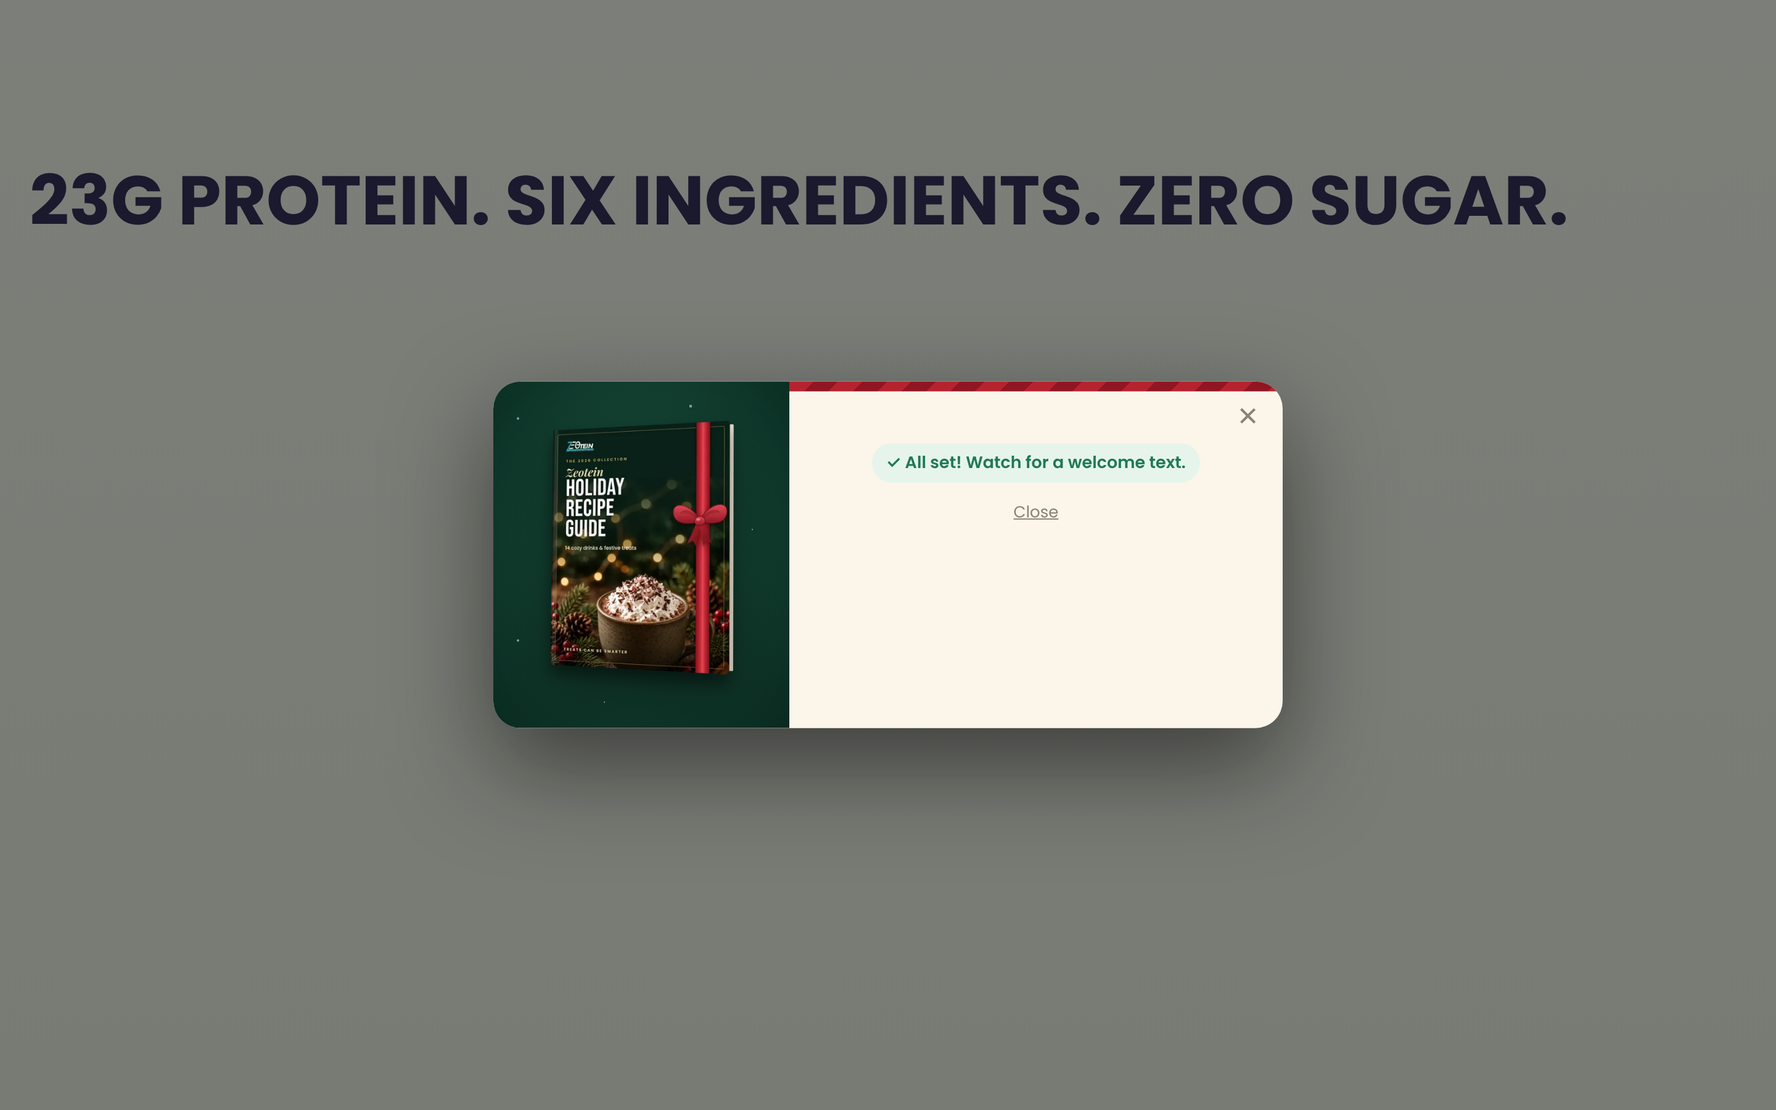
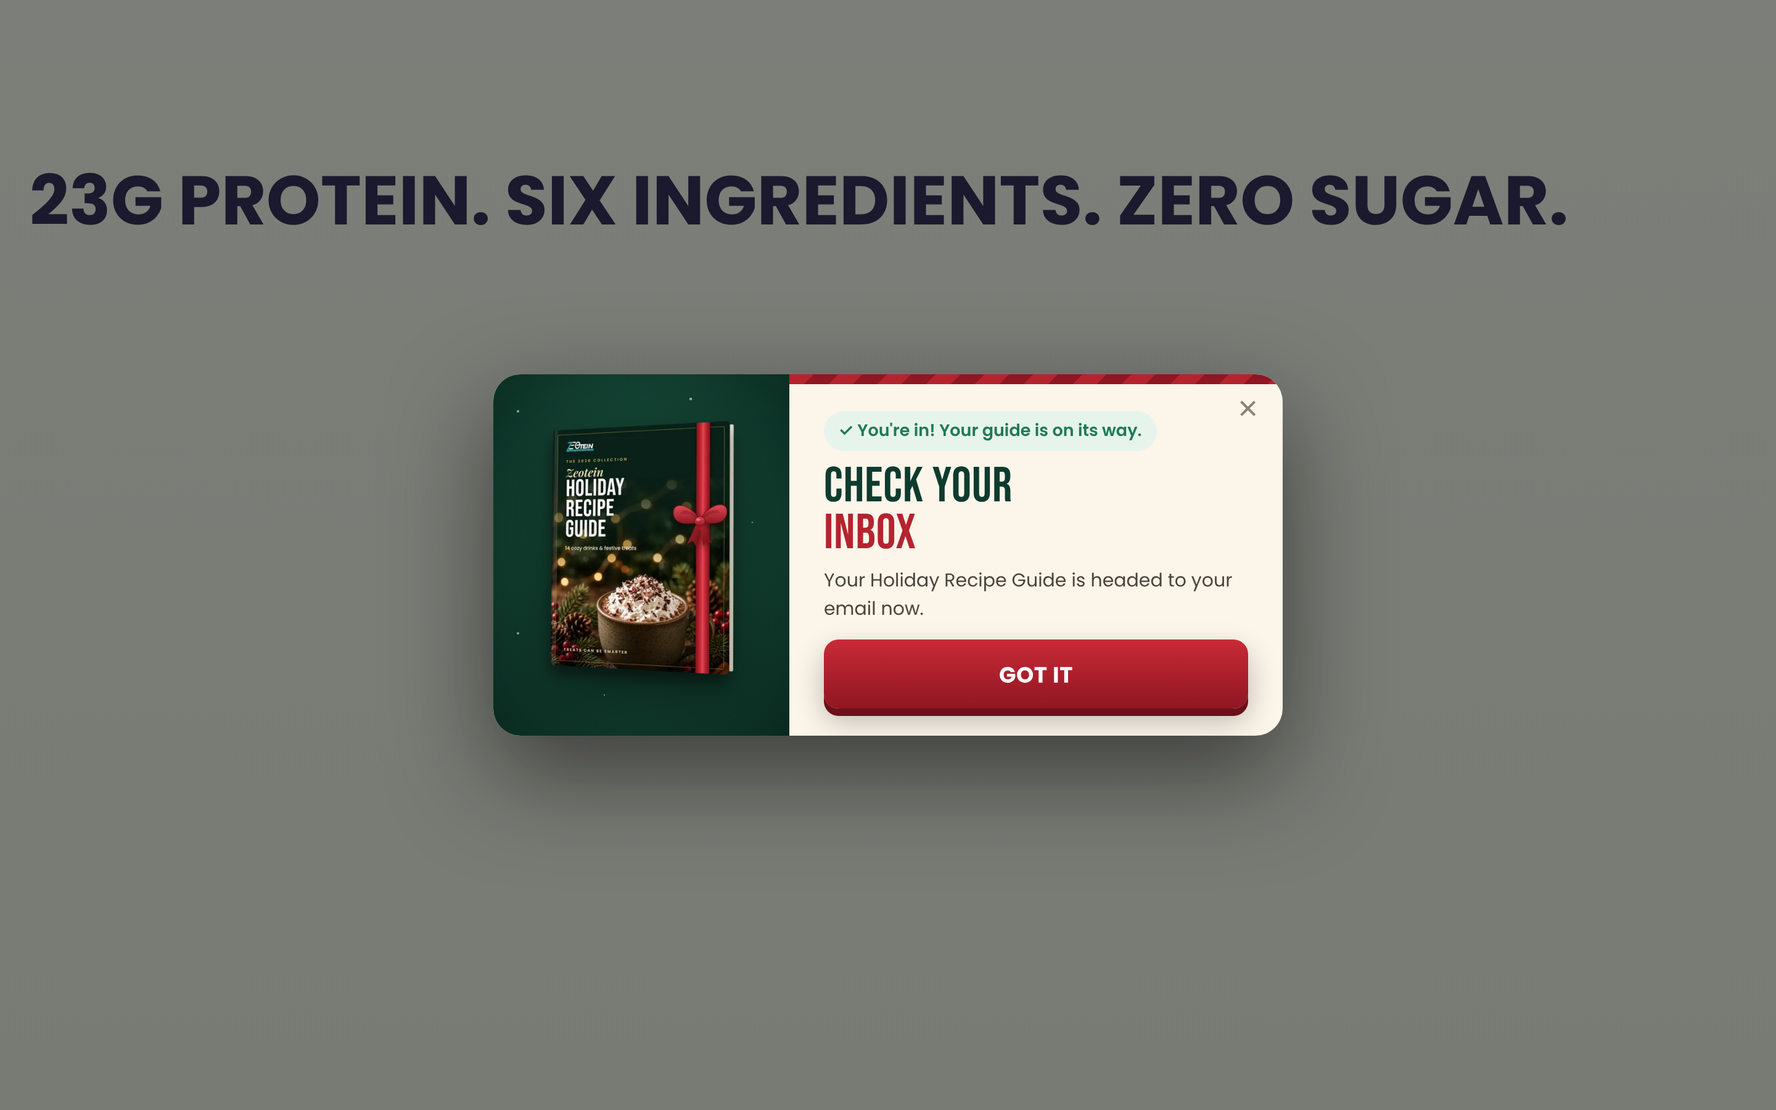
Holiday pop-up: one-step form with optional SMS consent, Meta Lead, 35s mobile timer
Claude-Session: https://claude.ai/code/session_01D28ukcK97WsDjE3N9VCs7n

Changed region(s): [[0.2812, 0.3111, 0.7188, 0.6844]]

diff --git a/holiday-popup/qa/preview.html b/holiday-popup/qa/preview.html
@@ -22,22 +22,20 @@
         <p class="zt-hp__p">14 cozy drinks and festive treats with protein folded right in. For you, and for sharing all season. Yours free.</p>
         <input class="zt-hp__in" type="text" name="firstName" placeholder="First name" autocomplete="given-name" required maxlength="60">
         <input class="zt-hp__in" type="email" name="email" placeholder="Email address" autocomplete="email" required maxlength="120">
+        <label class="zt-hp__in zt-hp__phone"><span class="zt-hp__cc">🇺🇸 +1</span><input type="tel" name="phone" placeholder="Mobile number (optional)" autocomplete="tel-national" inputmode="tel" maxlength="16"></label>
+        <label class="zt-hp__tcpa"><input type="checkbox" name="smsConsent" value="yes"><span data-zt-consent>Yes, text me recipes and holiday offers. By checking this box, you agree to receive recurring automated marketing texts from Zeotein at the number provided. Consent is not a condition of purchase. Msg &amp; data rates may apply. Msg frequency varies. Reply STOP to opt out, HELP for help. <a href="/policies/terms-of-service" target="_blank">Terms</a> &amp; <a href="/policies/privacy-policy" target="_blank">Privacy</a>.</span></label>
         <input class="zt-hp__hp" type="text" name="company" tabindex="-1" autocomplete="off" aria-hidden="true">
         <div class="zt-hp__err" role="alert"></div>
         <button class="zt-hp__btn" type="submit">Send My Free Guide 🎄</button>
         <button type="button" class="zt-hp__later" data-zt-close>Maybe later</button>
       </form>
 
-      <form class="zt-hp__s2" novalidate hidden>
+      <div class="zt-hp__s2" hidden>
         <div class="zt-hp__done">✓ You're in! Your guide is on its way.</div>
-        <h2 class="zt-hp__h zt-hp__h--s2">Want new recipes<br><span>by text?</span></h2>
-        <p class="zt-hp__p">Optional. Cozy recipes and holiday offers, sent straight to your phone.</p>
-        <label class="zt-hp__in zt-hp__phone"><span class="zt-hp__cc">🇺🇸 +1</span><input type="tel" name="phone" placeholder="Mobile number" autocomplete="tel-national" inputmode="tel" maxlength="16"></label>
-        <div class="zt-hp__err" role="alert"></div>
-        <button class="zt-hp__btn" type="submit">Text Me Recipes 📱</button>
-        <div class="zt-hp__tcpa" data-zt-consent>By tapping Text Me Recipes, you agree to receive recurring automated marketing texts from Zeotein at this number. Consent is not a condition of purchase. Msg &amp; data rates may apply. Msg frequency varies. Reply STOP to opt out, HELP for help. <a href="/policies/terms-of-service" target="_blank">Terms</a> &amp; <a href="/policies/privacy-policy" target="_blank">Privacy</a>.</div>
-        <button type="button" class="zt-hp__later" data-zt-close>Skip, email is perfect</button>
-      </form>
+        <h2 class="zt-hp__h zt-hp__h--s2">Check your<br><span>inbox</span></h2>
+        <p class="zt-hp__p">Your Holiday Recipe Guide is headed to your email now.</p>
+        <button type="button" class="zt-hp__btn" data-zt-close>Got It</button>
+      </div>
     </div>
   </div>
 </div>
@@ -74,20 +72,23 @@
 .zt-hp__btn[disabled]{opacity:.7;cursor:wait}
 .zt-hp__later{display:block;margin:14px auto 0;background:none;border:0;font:400 13px Poppins,sans-serif;color:#8a8273;text-decoration:underline;cursor:pointer}
 .zt-hp__done{display:flex;align-items:center;gap:8px;font:600 13.5px Poppins,sans-serif;color:#1f7a55;background:#e6f4ec;border-radius:999px;padding:6px 12px;width:max-content;max-width:100%;margin-bottom:10px}
-.zt-hp__tcpa{font-size:10.5px;line-height:1.45;color:#7a7266;margin-top:12px;text-align:left}
+.zt-hp__tcpa{display:flex;gap:9px;align-items:flex-start;font-size:10.5px;line-height:1.45;color:#7a7266;margin:2px 0 10px;text-align:left;cursor:pointer}
+.zt-hp__tcpa input{flex:0 0 auto;width:17px;height:17px;margin-top:1px;accent-color:var(--pine);cursor:pointer}
 .zt-hp__tcpa a{color:inherit;text-decoration:underline}
 @media (max-width:700px){
  .zt-hp__modal{top:auto;bottom:0;left:0;transform:translateY(100%);opacity:1;width:100%;max-width:none;max-height:92%;grid-template-columns:minmax(0,1fr);overflow-x:hidden;border-radius:22px 22px 0 0}
  .zt-hp.is-open .zt-hp__modal{transform:none}
- .zt-hp__art{padding:22px 0 0;height:170px;align-items:flex-start}
- .zt-hp__cover{width:118px}
+ .zt-hp__art{padding:18px 0 0;height:118px;align-items:flex-start}
+ .zt-hp__cover{width:78px}
  .zt-hp__handle{display:block;position:absolute;top:8px;left:50%;width:44px;height:5px;margin-left:-22px;border-radius:9px;background:rgba(255,255,255,.5);z-index:3}
  .zt-hp__body{padding:18px 20px calc(18px + env(safe-area-inset-bottom));text-align:center;position:static}
  .zt-hp__corner{position:relative;top:-18px;left:-20px;width:calc(100% + 40px);margin-bottom:-8px}
  .zt-hp__x{color:#fff;top:12px;right:10px;z-index:4}
- .zt-hp__h{font-size:40px}
+ .zt-hp__h{font-size:34px;margin:4px 0 6px}
+ .zt-hp__in{height:46px;margin-bottom:8px}
+ .zt-hp__k{font-size:11.5px}
  .zt-hp__h--s2{font-size:34px}
- .zt-hp__p{font-size:14.5px;margin-bottom:12px}
+ .zt-hp__p{font-size:13.5px;margin-bottom:10px}
  .zt-hp__done{margin:0 auto 8px;width:auto;display:inline-flex;font-size:12.5px}
  .zt-hp__s2{display:flex;flex-direction:column}
  .zt-hp__s2[hidden]{display:none}
@@ -101,7 +102,6 @@
   var ENDPOINT = "/mock";
   var KEY = 'zt_hp_v1';
   var DISMISS_DAYS = 7;          // after "Maybe later" / close
-  var SKIP_SMS_DAYS = 365;       // after email submit (never ask for email again)
   var root = document.getElementById('zt-hp'); if(!root) return;
   var q = new URLSearchParams(location.search);
   var force = q.get('zt_popup') === '1';
@@ -143,7 +143,7 @@
   function track(name, data){
     try{ window.dataLayer = window.dataLayer||[]; window.dataLayer.push(Object.assign({event:name}, data||{})); }catch(e){}
     try{ if(window.Shopify && Shopify.analytics && Shopify.analytics.publish) Shopify.analytics.publish(name, data||{}); }catch(e){}
-    try{ if(name==='zt_holiday_popup_email' && window.fbq) fbq('track','Lead',{content_name:'Holiday Recipe Guide'}); }catch(e){}
+    try{ if(name==='zt_holiday_popup_lead' && typeof window.fbq==='function') fbq('track','Lead',{content_name:'Holiday Recipe Guide', content_category:'holiday-popup'}); }catch(e){}
   }
   function post(payload){
     if(!ENDPOINT) return Promise.reject(new Error('not_configured'));
@@ -156,33 +156,24 @@
   s1.addEventListener('submit', function(e){
     e.preventDefault(); err(s1);
     var fn = s1.firstName.value.trim(), em = s1.email.value.trim();
+    var raw = s1.phone.value.trim(), consent = s1.smsConsent.checked;
+    var digits = raw.replace(/\D/g,'').replace(/^1(?=\d{10}$)/,'');
     if(!fn){ err(s1,'Please add your first name.'); return; }
     if(!/^[^\s@]+@[^\s@]+\.[^\s@]{2,}$/.test(em)){ err(s1,'Please enter a valid email.'); return; }
+    if(raw && digits.length !== 10){ err(s1,'Please enter a 10-digit US mobile number, or leave it blank.'); return; }
+    if(consent && !raw){ err(s1,'Add your mobile number to get texts, or uncheck the box.'); return; }
+    var payload = {firstName:fn, email:em, company:s1.company.value, pageUrl:location.href};
+    // Phone is only sent with explicit consent (unchecked by default).
+    if(raw && consent){ payload.phone = '+1'+digits; payload.smsConsent = true; payload.consentText = s1.querySelector('[data-zt-consent]').innerText.trim(); }
     busy(s1,true);
-    post({step:'email', firstName:fn, email:em, company:s1.company.value, pageUrl:location.href})
+    post(payload)
       .then(function(){
-        lead = {firstName:fn, email:em}; save({submitted: Date.now()});
-        track('zt_holiday_popup_email');
+        lead = {email:em}; save({submitted: Date.now()});
+        track('zt_holiday_popup_lead', {sms: !!payload.smsConsent});
         s1.hidden = true; s2.hidden = false;
-        var p = s2.querySelector('input[name=phone]'); if(window.matchMedia('(pointer:fine)').matches) p.focus();
       })
       .catch(function(){ err(s1,'Something went wrong. Please try again.'); })
       .then(function(){ busy(s1,false); });
-  });
-
-  s2.addEventListener('submit', function(e){
-    e.preventDefault(); err(s2);
-    var digits = s2.phone.value.replace(/\D/g,'').replace(/^1(?=\d{10}$)/,'');
-    if(digits.length !== 10){ err(s2,'Please enter a 10-digit US mobile number.'); return; }
-    busy(s2,true);
-    post({step:'sms', email:lead.email, firstName:lead.firstName, phone:'+1'+digits,
-          consentText: s2.querySelector('[data-zt-consent]').innerText.trim(), pageUrl:location.href})
-      .then(function(){
-        track('zt_holiday_popup_sms');
-        s2.innerHTML = '<div class="zt-hp__done" style="margin:20px auto 10px">✓ All set! Watch for a welcome text.</div><button type="button" class="zt-hp__later" data-zt-close>Close</button>';
-        setTimeout(close, 2600);
-      })
-      .catch(function(){ err(s2,'Something went wrong. Please try again.'); busy(s2,false); });
   });
 
   // Triggers
@@ -198,19 +189,9 @@
       open('exit_intent');
     });
   } else {
-    // Mobile: 25s on page AND 40% scroll, or quick scroll-up back toward the top after 40% (mobile "exit").
-    var maxPct = 0, lastY = window.scrollY, timeOk = false;
-    setTimeout(function(){ timeOk = true; check(); }, 25000);
-    function pct(){ var h = document.documentElement.scrollHeight - innerHeight; return h>0 ? window.scrollY/h : 1; }
-    function check(){
-      var p = pct(); if(p > maxPct) maxPct = p;
-      if(timeOk && maxPct >= 0.4) open('mobile_time_scroll');
-    }
-    window.addEventListener('scroll', function(){
-      var y = window.scrollY;
-      if(maxPct >= 0.4 && lastY - y > 600 && Date.now()-start > 12000) open('mobile_scroll_up');
-      lastY = y; check();
-    }, {passive:true});
+    // Mobile: one timer, 35s on this page (Dana: 30-45s). Leaving the page cancels it.
+    var t = setTimeout(function(){ if(document.visibilityState === 'visible') open('mobile_35s'); }, 35000);
+    window.addEventListener('pagehide', function(){ clearTimeout(t); });
   }
 })();
 </script>

diff --git a/holiday-popup/qa/popup_check.js b/holiday-popup/qa/popup_check.js
@@ -9,25 +9,34 @@ const results = []; const ok = (n, c) => { results.push([c ? 'PASS' : 'FAIL', n]
 async function ctx(b, opts) { const c = await b.newContext(opts); const posts = []; await c.route('**/mock', async r => { posts.push(JSON.parse(r.request().postData())); await r.fulfill({ status: 200, contentType: 'application/json', body: '{"ok":true}' }); }); return { c, posts }; }
 (async () => {
   const b = await chromium.launch();
-  // 1. Desktop flow via preview flag
+  // 1. One-step form, desktop + mobile
   for (const [name, opts] of [['desktop', { viewport: { width: 1440, height: 900 }, deviceScaleFactor: 2 }], ['mobile', { ...devices['iPhone 13'] }]]) {
     const { c, posts } = await ctx(b, opts); const p = await c.newPage();
+    await p.addInitScript(() => { window.__fb = []; window.fbq = function () { window.__fb.push([].slice.call(arguments)); }; });
     await p.goto(URL + '?zt_popup=1'); await p.waitForSelector('#zt-hp.is-open'); await p.waitForTimeout(700);
-    await p.screenshot({ path: `${out}/${name}-step1.png` });
-    await p.click('.zt-hp__s1 .zt-hp__btn'); ok(`${name}: blocks empty submit`, (await p.textContent('.zt-hp__s1 .zt-hp__err')).includes('first name') && posts.length === 0);
-    await p.fill('input[name=firstName]', 'QA'); await p.fill('input[name=email]', 'bad@'); await p.click('.zt-hp__s1 .zt-hp__btn');
-    ok(`${name}: blocks bad email`, posts.length === 0);
-    await p.fill('input[name=email]', 'qa@example.com'); await p.click('.zt-hp__s1 .zt-hp__btn');
+    await p.screenshot({ path: `${out}/${name}-form.png` });
+    ok(`${name}: consent box unchecked by default`, !(await p.isChecked('input[name=smsConsent]')));
+    await p.click('.zt-hp__s1 .zt-hp__btn'); ok(`${name}: blocks empty submit`, posts.length === 0);
+    await p.fill('input[name=firstName]', 'QA'); await p.fill('input[name=email]', 'qa@example.com');
+    await p.check('input[name=smsConsent]'); await p.click('.zt-hp__s1 .zt-hp__btn');
+    ok(`${name}: blocks consent without phone`, posts.length === 0);
+    await p.fill('input[name=phone]', '555 01'); await p.click('.zt-hp__s1 .zt-hp__btn');
+    ok(`${name}: blocks short phone`, posts.length === 0);
+    ok(`${name}: no Pixel Lead before success`, (await p.evaluate(() => window.__fb.length)) === 0);
+    await p.fill('input[name=phone]', '(555) 555-0123'); await p.click('.zt-hp__s1 .zt-hp__btn');
     await p.waitForSelector('.zt-hp__s2:not([hidden])'); await p.waitForTimeout(300);
-    ok(`${name}: step1 payload`, posts[0] && posts[0].step === 'email' && posts[0].email === 'qa@example.com' && posts[0].firstName === 'QA');
-    await p.screenshot({ path: `${out}/${name}-step2.png` });
-    await p.fill('input[name=phone]', '555 01'); await p.click('.zt-hp__s2 .zt-hp__btn'); ok(`${name}: blocks short phone`, posts.length === 1);
-    await p.fill('input[name=phone]', '(555) 555-0123'); await p.click('.zt-hp__s2 .zt-hp__btn'); await p.waitForTimeout(400);
-    ok(`${name}: step2 payload + consent text`, posts[1] && posts[1].phone === '+15555550123' && /Reply STOP to opt out/.test(posts[1].consentText) && posts[1].email === 'qa@example.com');
+    const q = posts[0] || {};
+    ok(`${name}: one request with email + phone + consent`, posts.length === 1 && q.email === 'qa@example.com' && q.phone === '+15555550123' && q.smsConsent === true && /Reply STOP to opt out/.test(q.consentText));
+    const fb = await p.evaluate(() => window.__fb);
+    ok(`${name}: Pixel Lead fired once on success`, fb.length === 1 && fb[0][0] === 'track' && fb[0][1] === 'Lead');
     await p.screenshot({ path: `${out}/${name}-done.png` });
-    // suppression after submit
+    // phone typed but box left unchecked -> phone NOT sent
+    const p3 = await c.newPage(); await p3.goto(URL + '?zt_popup=1'); await p3.waitForSelector('#zt-hp.is-open');
+    await p3.fill('input[name=firstName]', 'QA2'); await p3.fill('input[name=email]', 'qa2@example.com'); await p3.fill('input[name=phone]', '5555550123');
+    await p3.click('.zt-hp__s1 .zt-hp__btn'); await p3.waitForTimeout(500);
+    ok(`${name}: phone without consent is not sent`, posts[1] && !posts[1].phone && !posts[1].smsConsent);
     const p2 = await c.newPage(); await p2.goto(URL); await p2.waitForTimeout(500);
-    const st = await p2.evaluate(() => localStorage.getItem('zt_hp_v1')); ok(`${name}: submitted flag stored`, /submitted/.test(st));
+    ok(`${name}: submitted flag stored`, /submitted/.test(await p2.evaluate(() => localStorage.getItem('zt_hp_v1'))));
     await c.close();
   }
   // 2. Desktop exit intent: must NOT fire in first 8s, must fire after
@@ -42,12 +51,12 @@ async function ctx(b, opts) { const c = await b.newContext(opts); const posts = 
     ok('desktop: Maybe later closes + sets 7-day dismiss', await p.evaluate(() => document.getElementById('zt-hp').hidden && /dismissed/.test(localStorage.getItem('zt_hp_v1'))));
     await p.reload(); await p.waitForTimeout(9000); await exit(); await p.waitForTimeout(300);
     ok('desktop: stays suppressed after dismiss', await p.evaluate(() => document.getElementById('zt-hp').hidden)); await c.close(); }
-  // 3. Mobile: not before 25s, fires after 25s + 40% scroll
+  // 3. Mobile: 35s timer only
   { const { c } = await ctx(b, { ...devices['iPhone 13'] }); const p = await c.newPage(); await p.goto(URL);
-    await p.evaluate(() => window.scrollTo(0, document.body.scrollHeight * .6)); await p.waitForTimeout(3000);
-    ok('mobile: not shown at 3s even with scroll', await p.evaluate(() => document.getElementById('zt-hp').hidden));
-    await p.waitForTimeout(23000); await p.evaluate(() => window.scrollBy(0, 10)); await p.waitForTimeout(500);
-    ok('mobile: shown after 25s + 40% scroll', await p.evaluate(() => !document.getElementById('zt-hp').hidden)); await c.close(); }
+    await p.evaluate(() => window.scrollTo(0, document.body.scrollHeight * .8)); await p.waitForTimeout(30000);
+    ok('mobile: not shown at 30s', await p.evaluate(() => document.getElementById('zt-hp').hidden));
+    await p.waitForTimeout(6000);
+    ok('mobile: shown at ~35s', await p.evaluate(() => !document.getElementById('zt-hp').hidden)); await c.close(); }
   // 4. email/sms traffic suppressed
   { const { c } = await ctx(b, { viewport: { width: 1440, height: 900 } }); const p = await c.newPage(); await p.goto(URL + '?utm_source=ghl&utm_medium=email');
     await p.waitForTimeout(9000); await p.evaluate(() => document.dispatchEvent(new MouseEvent('mouseout', { clientY: -5 }))); await p.waitForTimeout(300);

diff --git a/holiday-popup/worker/worker.js b/holiday-popup/worker/worker.js
@@ -47,23 +47,17 @@ export async function handle(b, env, fetchImpl = fetch) {
   const firstName = String(b.firstName || '').trim().slice(0, 60);
   const now = new Date().toISOString();
 
-  if (b.step === 'email') {
-    if (!firstName) throw httpErr('first_name', 400);
-    const body = buildEmailUpsert({ email, firstName, pageUrl: b.pageUrl }, env);
-    const c = await ghl('/contacts/upsert', body, env, fetchImpl);
-    await addTags(c.id, EMAIL_TAGS, env, fetchImpl); // explicit add so the tag-added trigger fires even on existing contacts
-    return { contactId: c.id };
-  }
+  if (!firstName) throw httpErr('first_name', 400);
+  const wantsSms = b.smsConsent === true && b.phone != null;
+  if (wantsSms && !/^\+1\d{10}$/.test(String(b.phone))) throw httpErr('phone', 400);
 
-  if (b.step === 'sms') {
-    const phone = String(b.phone || '');
-    if (!/^\+1\d{10}$/.test(phone)) throw httpErr('phone', 400);
-    const body = buildSmsUpsert({ email, firstName, phone, consentText: b.consentText, pageUrl: b.pageUrl, now }, env);
-    const c = await ghl('/contacts/upsert', body, env, fetchImpl);
-    await addTags(c.id, SMS_TAGS, env, fetchImpl);
-    return { contactId: c.id };
-  }
-  throw httpErr('step', 400);
+  // One request from the pop-up: email lead always; phone + SMS consent only when the box was checked.
+  const body = wantsSms
+    ? { ...buildEmailUpsert({ email, firstName }, env), ...buildSmsUpsert({ email, phone: String(b.phone), consentText: b.consentText, pageUrl: b.pageUrl, now }, env) }
+    : buildEmailUpsert({ email, firstName }, env);
+  const c = await ghl('/contacts/upsert', body, env, fetchImpl);
+  await addTags(c.id, wantsSms ? [...EMAIL_TAGS, ...SMS_TAGS] : EMAIL_TAGS, env, fetchImpl);
+  return { contactId: c.id, sms: wantsSms };
 }
 
 export function buildEmailUpsert({ email, firstName, pageUrl }, env) {

diff --git a/holiday-popup/README.md b/holiday-popup/README.md
@@ -15,15 +15,15 @@ Preview: https://zeotein.com/?preview_theme_id=187982840021&zt_popup=1 (`zt_popu
 
 ## Behavior
 - **Desktop:** centered modal. It opens on **exit intent only**, and only after 8s on the page, so it can't fire early.
-- **Mobile:** bottom sheet. It opens after **25s on the page AND 40% scroll depth**, or on a fast scroll back up after reading 40%.
+- **Mobile:** bottom sheet. It opens after **35s on the same page** (Dana's 30-45s window). Leaving the page or switching tabs cancels it.
 - **Suppression:** it never shows again after a submit. "Maybe later" or close hides it for 7 days. It shows at most once per session. It's skipped for logged-in customers who accept marketing and for visitors arriving from our own email or SMS (`utm_source`/`utm_medium` containing email, sms, ghl, klaviyo). It's also skipped on cart, account, subscription portal and checkout pages.
-- **Step 1:** first name + email. The relay upserts the contact (source `holiday-popup`) and **adds** the tags `holiday-guide` and `acq-holiday-popup`.
-- **Step 2 (optional):** a US mobile number plus the exact TCPA line from the mockup. The relay sets the phone, sets SMS DND to inactive, and adds the tags `sms-opted-in` and `holiday-popup-sms`. It also writes these custom fields:
+- **One step (Dana, Nov 11):** first name, email, an optional mobile number, and an SMS consent checkbox that is **unchecked by default**. The relay always upserts the contact (source `holiday-popup`) and **adds** the tags `holiday-guide` and `acq-holiday-popup`. Only when the box is checked and the number is valid does it also save the phone, set SMS DND to inactive, add `sms-opted-in` and `holiday-popup-sms`, and write the four consent fields:
   - SMS Consent Timestamp (`dHt8bKGRJDMonW9RxmIK`)
   - SMS Consent Source = holiday-popup (`moRFFbcOuZUE4Fryigb5`)
   - SMS Consent Text (`ROBEY26uJci7GEUJ23GQ`)
   - SMS Consent Page URL (`8kiKSYbmUCWy1ClyClqO`)
-- **Skipping step 2** keeps the email lead.
+- **A phone typed without the box checked is discarded**, in the browser and again in the relay.
+- **Meta Pixel:** `fbq('track','Lead')` fires once, only after the relay confirms the signup.
 - **Tags are never sent on upsert.** GHL's upsert replaces all of a contact's tags, so tags are added in a separate call.
 
 ## Go-live steps
@@ -32,7 +32,8 @@ Preview: https://zeotein.com/?preview_theme_id=187982840021&zt_popup=1 (`zt_popu
    - `GHL_LOCATION_ID=Kch9YmRfzpmQrAs5Bchz`
    - `ALLOWED_ORIGINS=https://zeotein.com,https://www.zeotein.com`
    - `CF_SMS_TS`, `CF_SMS_SOURCE`, `CF_SMS_TEXT`, `CF_SMS_PAGE`: the four custom field ids listed above.
-2. Paste the Worker URL into `zt_hp_endpoint` in the snippet. Until then the form shows "Something went wrong" and sends nothing.
+2. Paste the Worker URL into `zt_hp_endpoint` in the snippet.
+   The holiday guide landing page form should get the same one-step layout later. Until then the form shows "Something went wrong" and sends nothing.
 3. Fix the guide-email trigger (see the open issue below).
 4. Turn it on. Either copy the snippet, the section and the footer-group entry into the live theme, or publish this draft. Don't publish the draft if the live theme has changed since Nov 11.
 
